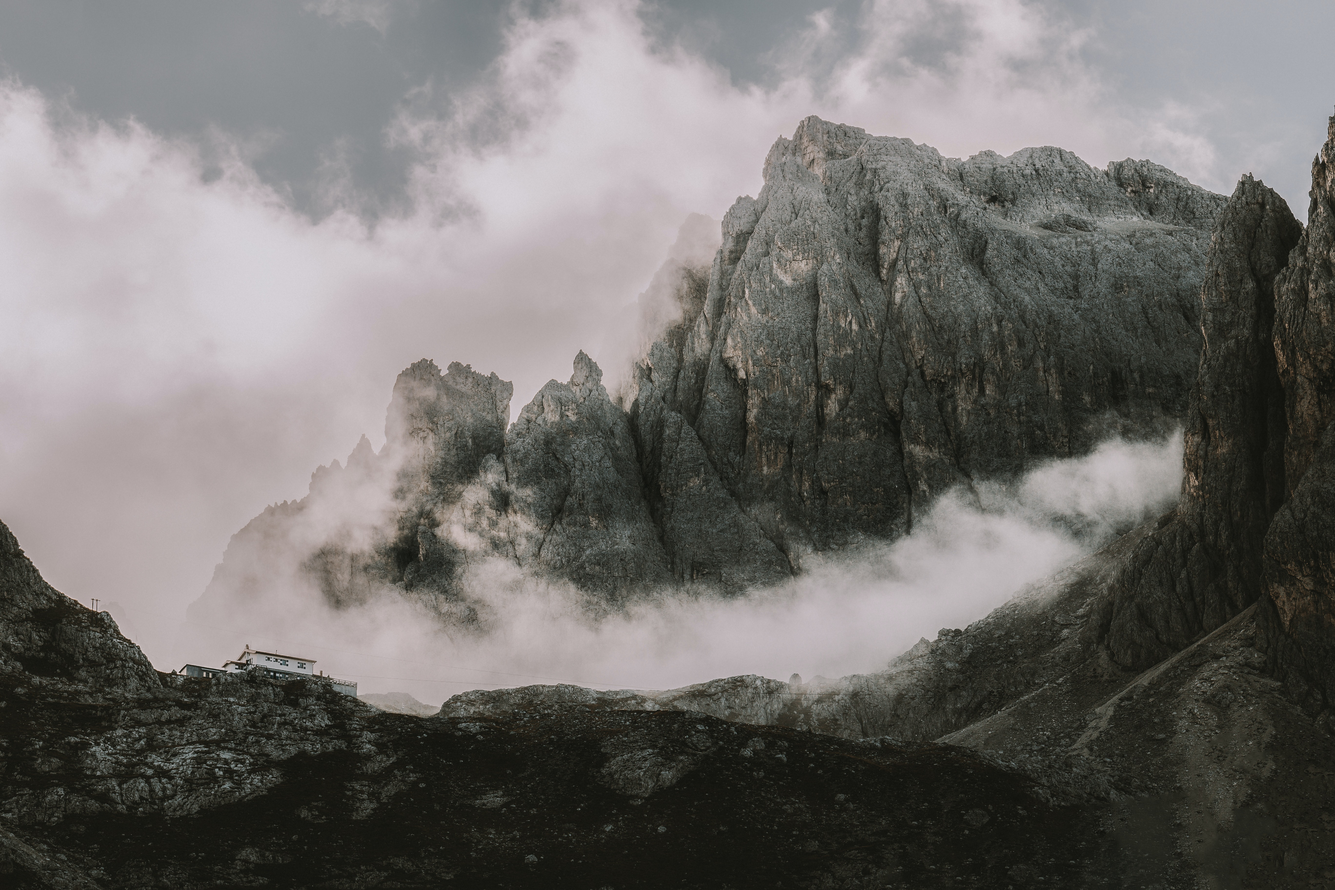
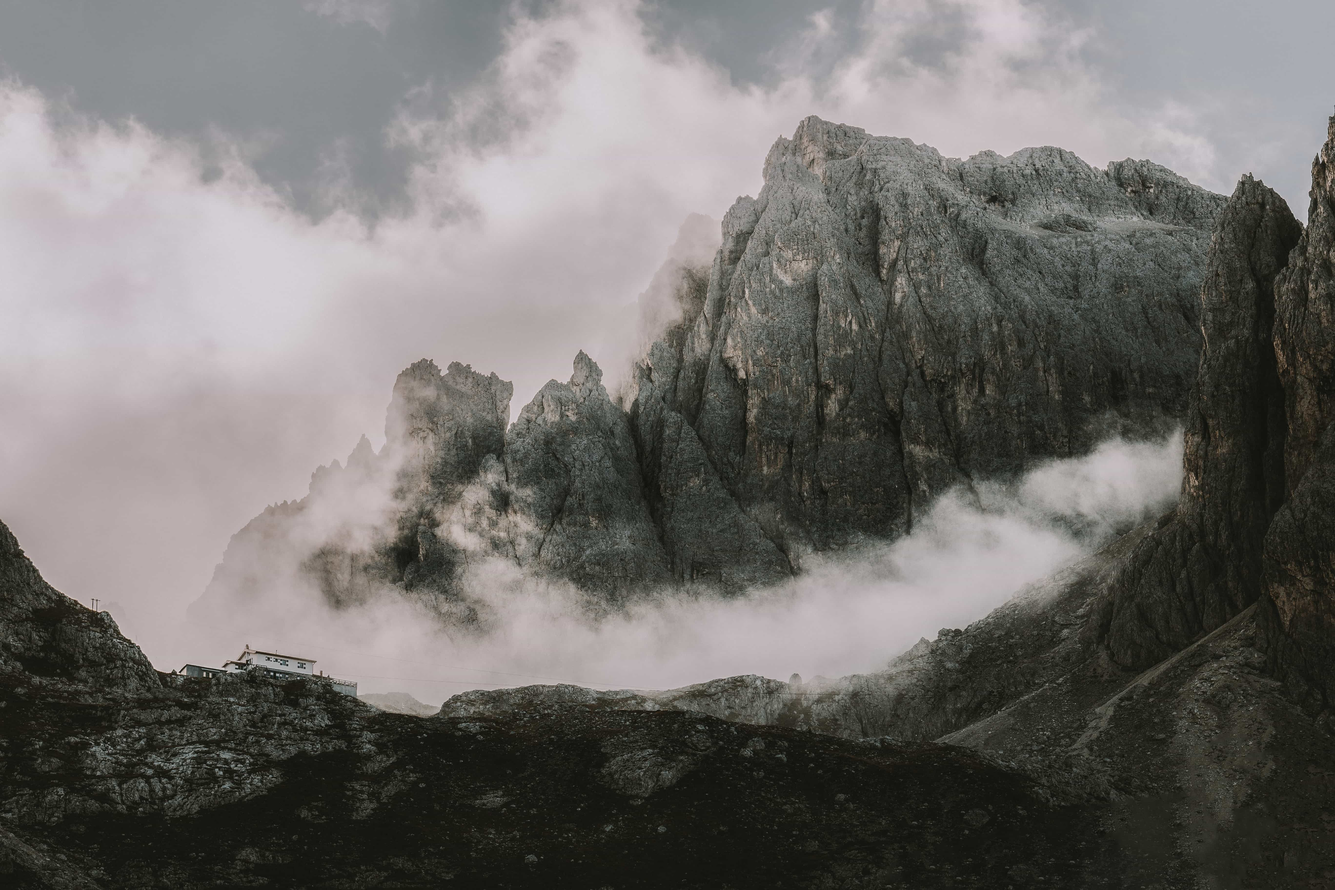
Last changes

diff --git a/Index.html b/Index.html
@@ -5,7 +5,7 @@
     <meta charset="UTF-8">
     <meta http-equiv="X-UA-Compatible" content="IE=edge">
     <meta name="viewport" content="width=device-width, initial-scale=1.0">
-    <link rel="icon" type="image/png" href="img/Icono.png" />
+    <link rel="shortcut icon" href="FA-6.4\svgs\solid\signs-post.svg" type="image/x-icon">
     <link rel="stylesheet" href="css/index.css">
     <title>Parque Nacional del Manu | Home</title>
     <script type="text/javascript" src="script/jquery-3.6.0.min.js"></script>
@@ -41,11 +41,11 @@
         <section id="inicio">
             <h2>Bienvenido al Parque Nacional del Manu</h2>
             <div class="slider">
-                <img src="img/Paisaje-1.png" alt="Paisaje dentro del Parque Nacional del Manu" />
+                <img src="img/Paisaje-1.jpg" alt="Paisaje dentro del Parque Nacional del Manu" />
                 <img src="img/Paisaje-2.jpg" alt="Paisaje dentro del Parque Nacional del Manu" />
                 <img src="img/Paisaje-3.jpg" alt="Paisaje dentro del Parque Nacional del Manu" />
-                <img src="img/Paisaje-4.png" alt="Paisaje dentro del Parque Nacional del Manu" />
-                <img src="img/Paisaje-5.jpeg" alt="Paisaje dentro del Parque Nacional del Manu" />
+                <img src="img/Paisaje-4.jpg" alt="Paisaje dentro del Parque Nacional del Manu" />
+                <img src="img/Paisaje-5.jpg" alt="Paisaje dentro del Parque Nacional del Manu" />
                 <iframe src="https://www.youtube.com/embed/mwFesIvZ5Zc?controls=0" title="YouTube video player"
                     frameborder="0"
                     allow="accelerometer; autoplay; clipboard-write; encrypted-media; gyroscope; picture-in-picture; web-share"

diff --git a/Acerca.html b/Acerca.html
@@ -5,7 +5,7 @@
     <meta charset="UTF-8">
     <meta http-equiv="X-UA-Compatible" content="IE=edge">
     <meta name="viewport" content="width=device-width, initial-scale=1.0">
-    <link rel="icon" type="image/png" href="img/Icono.png" />
+    <link rel="shortcut icon" href="FA-6.4\svgs\solid\signs-post.svg" type="image/x-icon">
     <link rel="stylesheet" href="css/acerca.css">
     <link rel="stylesheet" href="FA-6.4/css/all.min.css">
     <script type="text/javascript" src="script/jquery-3.6.0.min.js"></script>
@@ -57,7 +57,7 @@
                 el Parque Nacional del Manu es el destino perfecto para ti.
             </p><br>
             <div class="slider">
-                <img src="img/Fondo.png" alt="Collpa de Guacamayos">
+                <img src="img/Fondo.jpg" alt="Collpa de Guacamayos">
                 <img src="img/Fondo-2.jpg" alt="Posada Amazonas a las afueras del Parque">
                 <iframe id="player" src="https://www.youtube.com/embed/FeqDkYzei-8?controls=0&amp;start=50"
                     title="YouTube video player" frameborder="0"

diff --git a/css/tabla.css b/css/tabla.css
@@ -167,7 +167,7 @@ main {
     display: flex;
     flex-direction: column;
     padding: 20px 2%;
-    background-image: url(../img/Paisaje-5.jpeg);
+    background-image: url(../img/Paisaje-5.jpg);
 }
 
 .container {
@@ -257,7 +257,6 @@ iframe {
 
 /**Footer------------------------------------------------------*/
 footer {
-    user-select: none;
     background-color: rgb(59, 58, 52);
     box-shadow: 0px -20px 10px 0px rgba(0, 0, 0, 0.35);
     width: 100%;
@@ -268,6 +267,7 @@ footer {
 }
 
 footer section>* {
+    user-select: none;
     flex: 200px;
     margin: 10px;
 }

diff --git a/Formulario.html b/Formulario.html
@@ -5,7 +5,7 @@
     <meta charset="UTF-8">
     <meta http-equiv="X-UA-Compatible" content="IE=edge">
     <meta name="viewport" content="width=device-width, initial-scale=1.0">
-    <link rel="icon" type="image/png" href="img/correo.png">
+    <link rel="shortcut icon" href="FA-6.4\svgs\solid\signs-post.svg" type="image/x-icon">
     <link rel="stylesheet" href="css/form.css">
     <title>Parque Nacional del Manu | Contacto</title>
     <script type="text/javascript" src="script/jquery-3.6.0.min.js"></script>

diff --git a/Tabla.html b/Tabla.html
@@ -5,7 +5,7 @@
     <meta charset="UTF-8">
     <meta http-equiv="X-UA-Compatible" content="IE=edge">
     <meta name="viewport" content="width=device-width, initial-scale=1.0">
-    <link rel="icon" type="image/png" href="img/Icono.png" />
+    <link rel="shortcut icon" href="FA-6.4\svgs\solid\signs-post.svg" type="image/x-icon">
     <link rel="stylesheet" href="css/tabla.css">
     <link rel="stylesheet" href="FA-6.4/css/all.min.css">
     <title>Parque Nacional del Manu | </title>

diff --git a/css/acerca.css b/css/acerca.css
@@ -218,7 +218,6 @@ section {
 
 /**Footer------------------------------------------------------*/
 footer {
-    user-select: none;
     background-color: rgb(59, 58, 52);
     box-shadow: 0px -20px 10px 0px rgba(0, 0, 0, 0.35);
     width: 100%;
@@ -229,6 +228,7 @@ footer {
 }
 
 footer section>* {
+    user-select: none;
     flex: 200px;
     margin: 10px;
 }

diff --git a/css/index.css b/css/index.css
@@ -258,7 +258,6 @@ hr {
 
 /**Footer------------------------------------------------------*/
 footer {
-    user-select: none;
     background-color: rgb(59, 58, 52);
     box-shadow: 0px -20px 10px 0px rgba(0, 0, 0, 0.35);
     width: 100%;
@@ -269,6 +268,7 @@ footer {
 }
 
 footer section>* {
+    user-select: none;
     flex: 200px;
     margin: 10px;
 }

diff --git a/css/form.css b/css/form.css
@@ -12,6 +12,8 @@ body {
     justify-content: center;
     align-items: center;
     min-height: 100vh;
+    background-image: url(../img/bg-3.jpg);
+    background-size: cover;
 }
 
 
